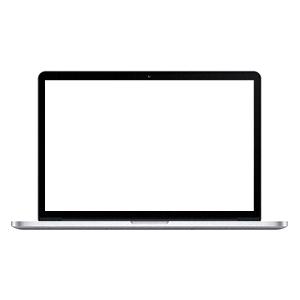
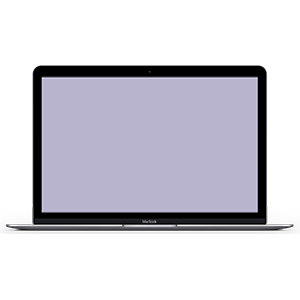
Update portfolio desktop macbook background

diff --git a/full/sass/_home.sass b/full/sass/_home.sass
@@ -218,10 +218,10 @@ $media-height: 322px
           //background: red
           margin: 0 auto
           position: relative
-          top: 80px
-          width: 209px
-          height: 131px
-          left: -1px
+          top: 77px
+          width: 216px
+          height: 136px
+          left: 0
         img
           width: 100%
           height: 100%
